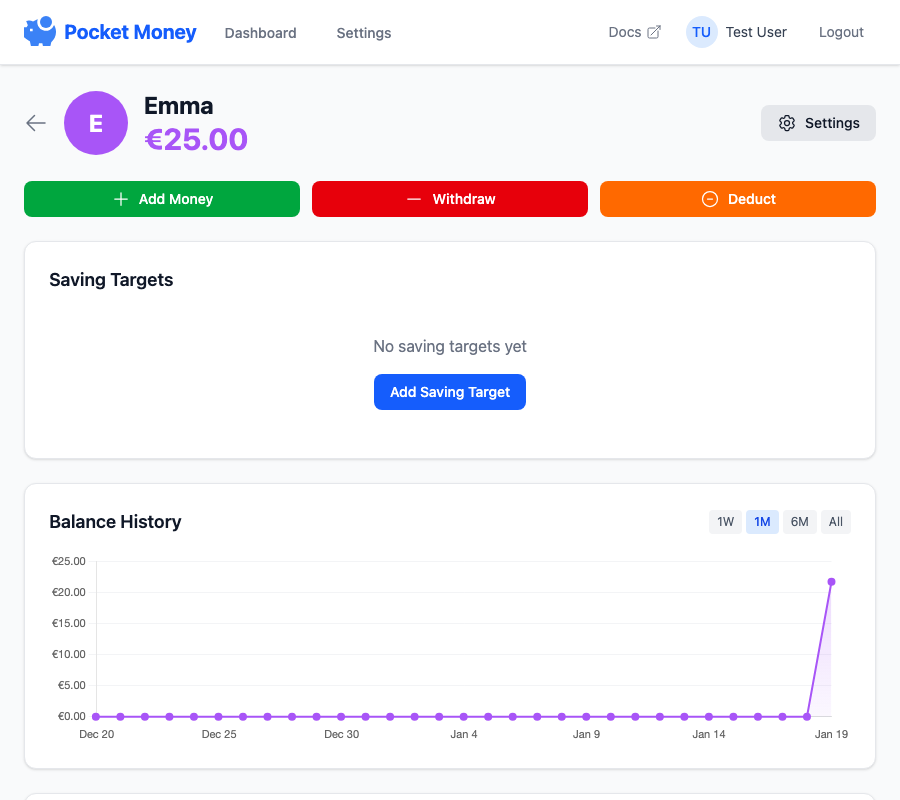
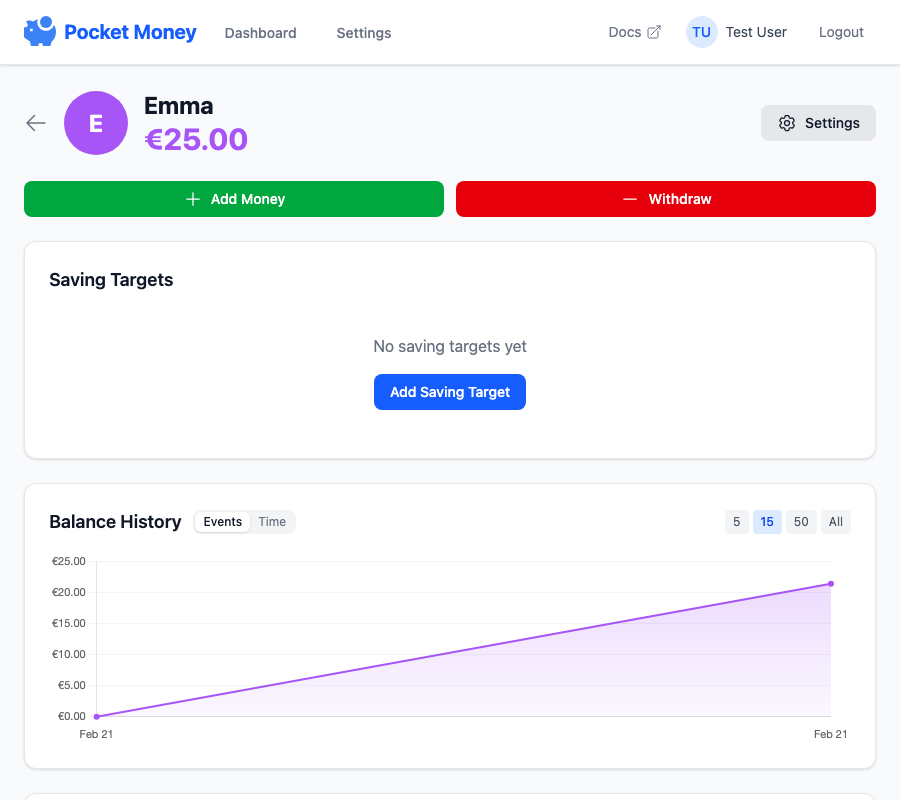
Update docs and regenerate screenshots for event count buttons
- Update Balance History section in children.md to document the
  Events mode (5/15/50/All buttons) vs Time mode (1W/1M/6M/All)
- Regenerate all screenshots to reflect latest UI changes

diff --git a/docs/guide/children.md b/docs/guide/children.md
@@ -22,14 +22,12 @@ Click on a child's card to view their profile:
 
 ![Child Profile](../assets/screenshots/child-profile-with-transaction.png)
 
-### Balance History Time Range
+### Balance History
 
-Use the buttons in the top-right of the Balance History chart to change the time range:
+The Balance History chart has two display modes, toggled with the **Events / Time** buttons:
 
-- **1W** - Last 7 days
-- **1M** - Last 30 days (default)
-- **6M** - Last 6 months
-- **All** - All time since first transaction
+- **Events mode** (default) - Shows the last N individual transactions on the x-axis. Use the count buttons to choose how many events to display: **5**, **15** (default), **50**, or **All**
+- **Time mode** - Shows balance over a calendar time range. Use the range buttons: **1W** (last 7 days), **1M** (last 30 days, default), **6M** (last 6 months), or **All** (all time)
 
 ## Adding Money
 
